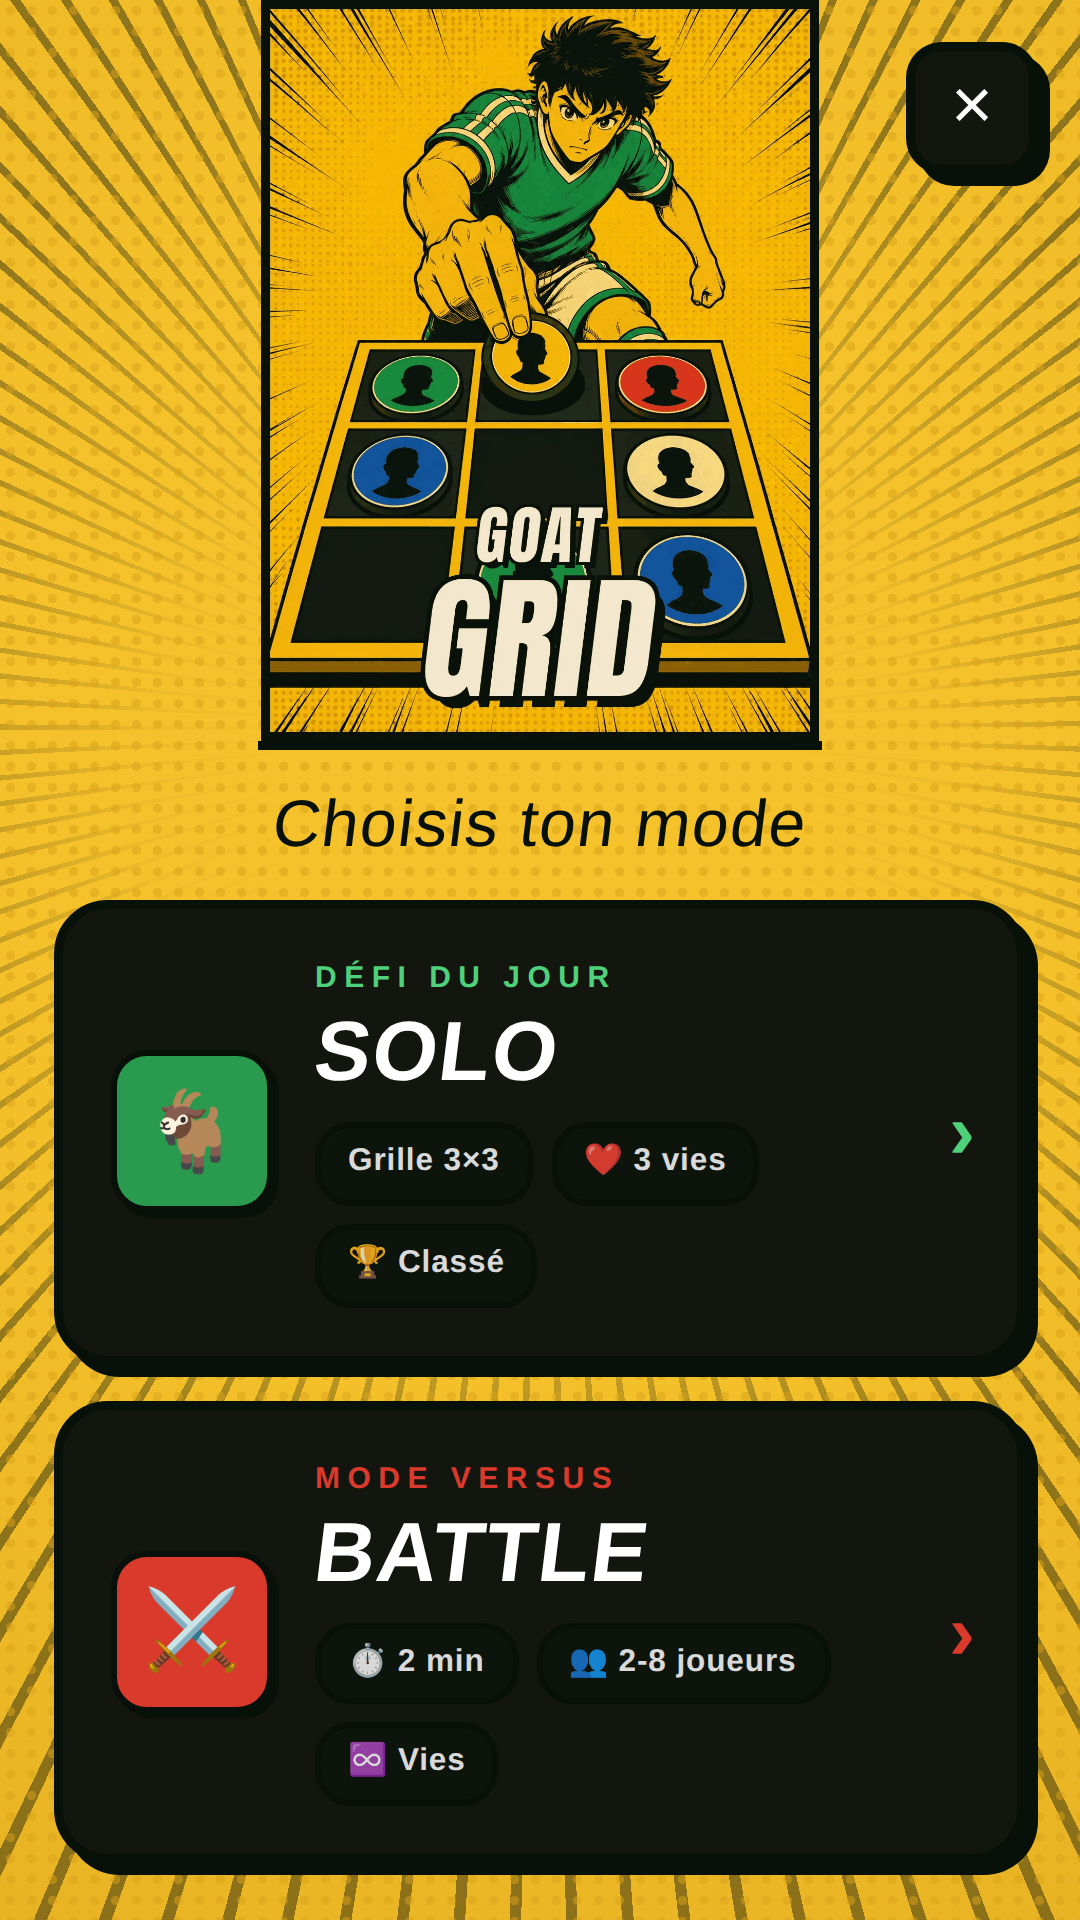
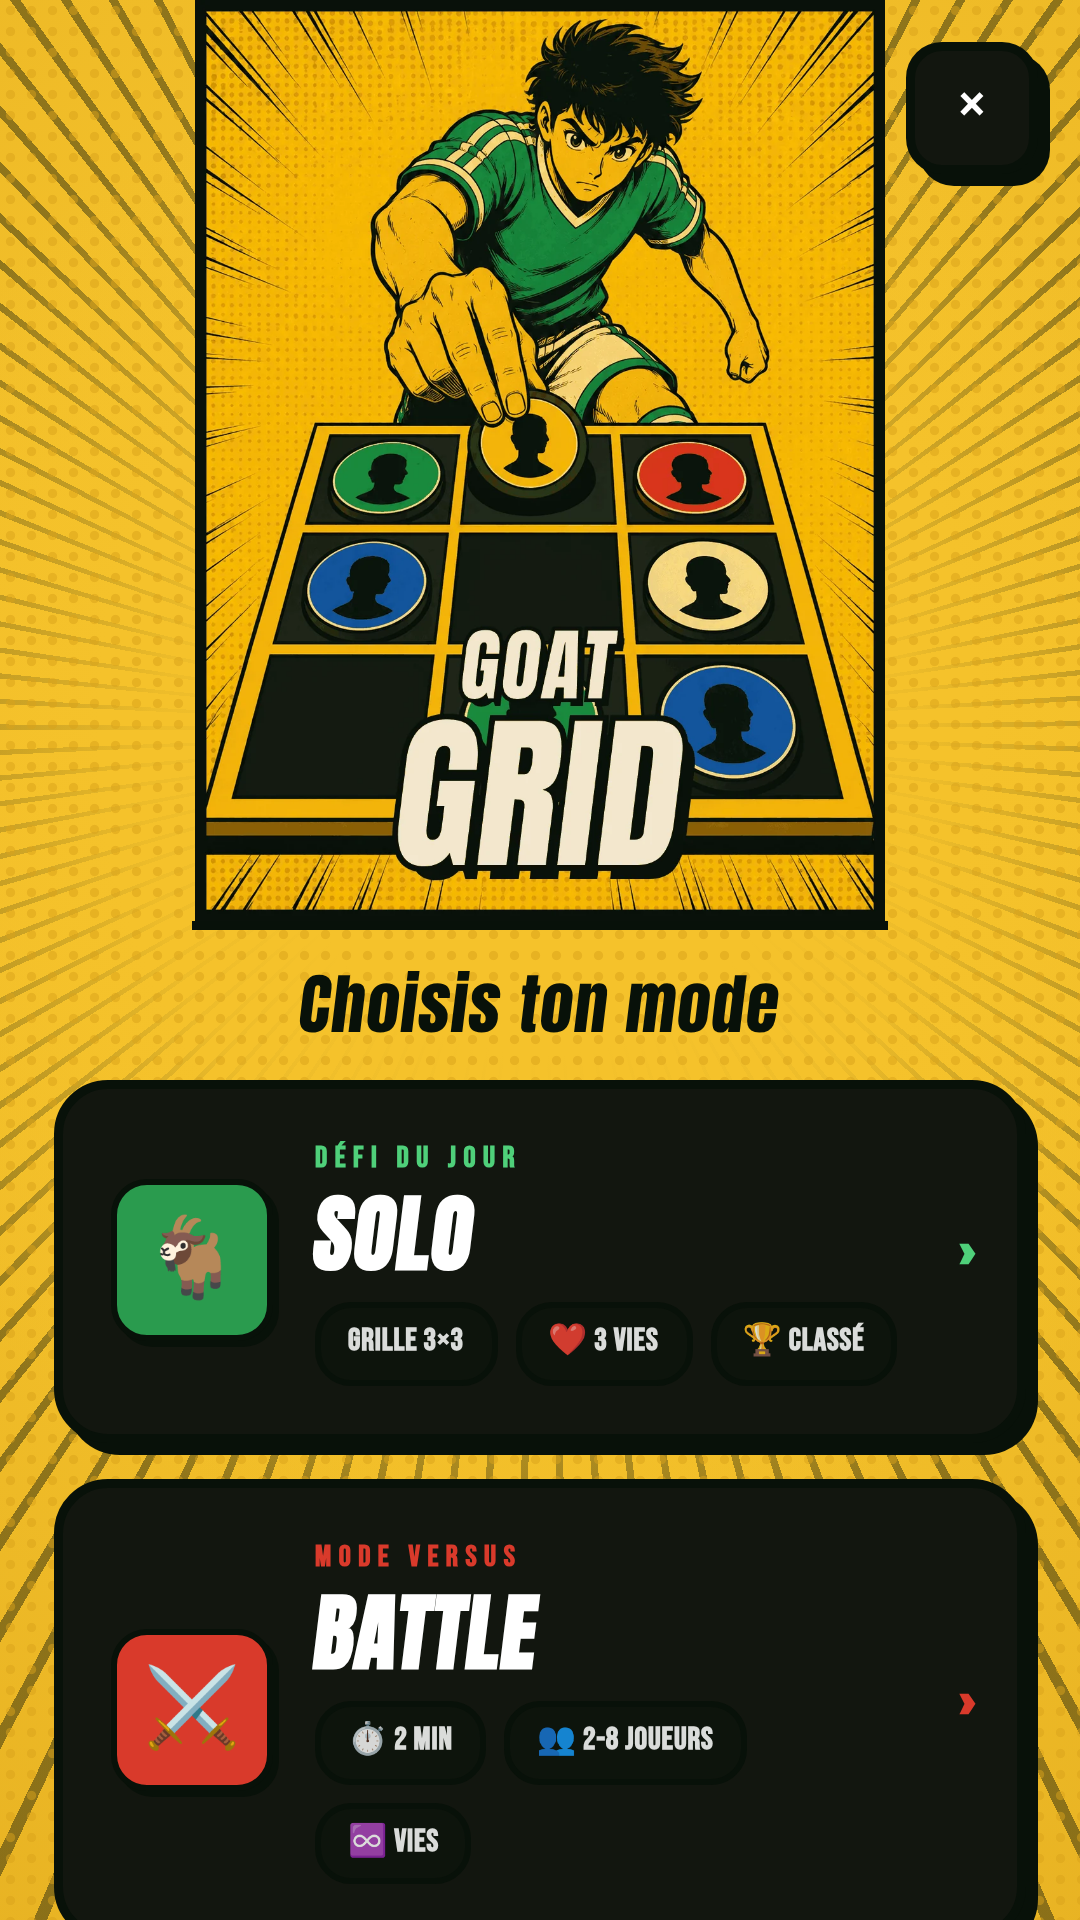
Apercu : les polices etaient absentes, donc TOUT etait peint en repli (#580)
Signalement : « c'est pas la bonne police d'ecriture » sur les visuels du store.
C'etait vrai, et la cause va plus loin que le lettrage.

L'app charge Anton, Bebas Neue, Inter et Nunito UNIQUEMENT depuis Google Fonts.
Le navigateur de cette machine n'y a pas acces : les quatre requetes echouent, et
tout est peint avec la police systeme.

EN SILENCE, et c'est ce qui compte. `document.fonts.check()` repond meme `true`
pour les quatre — il ne dit pas si la police est chargee, seulement que le texte
serait rendu. Un controle qui rassure sans rien verifier. Ce qui l'a prouve, c'est
la mesure : « GOAT GRID BATTLE » a 60 px faisait EXACTEMENT 390 px en Anton comme
en repli. Meme largeur, meme police.

Le depot versionnait deja Anton pour cette raison exacte, et son LISEZ-MOI le dit
mot pour mot : « une police chargee depuis un CDN au moment du rendu echoue en
silence et retombe sur une police systeme — le visuel partirait avec le mauvais
lettrage sans que rien ne le signale. » Je ne l'ai pas utilisee. Bebas Neue
l'accompagne maintenant, telechargee depuis le sous-ensemble latin de Google.

LA CONSEQUENCE QUI NE SE VOYAIT PAS. Les polices de repli sont plus LARGES que les
condensees. Les pastilles passaient donc a la ligne, et le bloc des choix de la
feuille GOAT GRID mesurait 387 px au lieu de 320. Le plafond de l'affiche pose ce
matin avait ete dimensionne sur ce chiffre faux : l'affiche etait 70 px plus petite
[…]

diff --git a/src/test/images.test.ts b/src/test/images.test.ts
@@ -128,3 +128,44 @@ describe("manifest.json", () => {
     expect(manifeste.theme_color.toUpperCase()).toBe("#F5C22B");
   });
 });
+
+// ── LES POLICES DU HARNAIS DOIVENT RESTER LÀ ──────────────────────────────
+//
+// L'app charge Anton, Bebas Neue, Inter et Nunito depuis Google Fonts. Une
+// machine sans accès à ce CDN — celle des aperçus, celle d'une CI — peint alors
+// tout en police système, EN SILENCE : les quatre requêtes échouent et
+// `document.fonts.check()` répond quand même `true`, parce qu'il ne dit pas si la
+// police est chargée mais si le texte serait rendu.
+//
+// Treize captures du Play Store sont parties avec le mauvais lettrage avant que
+// quelqu'un ne le remarque à l'œil. Pire, les polices de repli sont plus LARGES
+// que les condensées : les pastilles passaient à la ligne, le bloc des choix
+// mesurait 387 px au lieu de 320, et le plafond de l'affiche de GOAT GRID avait
+// été dimensionné sur ce chiffre faux.
+//
+// scripts/apercu.mjs les injecte donc en data URI et refuse de photographier si
+// elles ne sont pas appliquées. Ce test garde l'autre bout : que les fichiers
+// existent, et qu'ils soient de vrais woff2.
+describe("polices embarquées pour les aperçus", () => {
+  const POLICES = ["anton-latin.woff2", "bebas-neue-latin.woff2"];
+  const DOSSIER = join(process.cwd(), "scripts", "polices");
+
+  for (const nom of POLICES) {
+    it(nom + " est présente et est bien un woff2", () => {
+      const chemin = join(DOSSIER, nom);
+      expect(existsSync(chemin)).toBe(true);
+      // La signature d'un woff2 est « wOF2 » sur les quatre premiers octets. Un
+      // fichier tronqué ou une page d'erreur HTML téléchargée à sa place
+      // passerait un simple contrôle d'existence.
+      const tete = readFileSync(chemin).subarray(0, 4).toString("latin1");
+      expect(tete).toBe("wOF2");
+    });
+  }
+
+  it("apercu.mjs les injecte toutes les deux", () => {
+    const src = readFileSync(join(process.cwd(), "scripts", "apercu.mjs"), "utf8");
+    for (const nom of POLICES) expect(src).toContain(nom);
+    // Et il doit REFUSER de capturer sans elles, pas seulement prévenir.
+    expect(src).toContain("POLICE NON APPLIQUÉE");
+  });
+});

diff --git a/src/components/LePont.jsx b/src/components/LePont.jsx
@@ -14065,11 +14065,18 @@ export default function LePont() {
                   Défiler n'était pas une réponse : l'affiche remplit l'écran
                   jusqu'au bord, donc rien n'annonce qu'il y a quelque chose en
                   dessous.
-                  390 px est la hauteur mesurée du bloc des choix, et la zone
+                  330 px est la hauteur MESURÉE du bloc des choix, et la zone
                   sûre du bas s'y ajoute sur un téléphone à encoche. Le plancher
                   de 170 px évite qu'un très petit écran ne réduise l'affiche à
-                  une vignette : là, on accepte de défiler. */}
-              <div style={{position:"relative",zIndex:1,width:"100%",aspectRatio:"1086 / 1448",flex:"0 0 auto",maxWidth:"min(480px, max(170px, calc((100dvh - 390px - env(safe-area-inset-bottom)) * 1086 / 1448)))",margin:"0 auto",overflow:"hidden",borderBottom:G.trait}}>
+                  une vignette : là, on accepte de défiler.
+                  La première version réservait 390 px, mesurés dans un harnais
+                  où les polices de Google Fonts n'étaient pas chargées : le
+                  texte, peint en repli système, était plus large et les pastilles
+                  passaient à la ligne. Avec Anton et Bebas Neue, condensées, le
+                  bloc fait 320 px et l'affiche récupère les 70 px de différence.
+                  Le harnais embarque désormais les deux polices et REFUSE de
+                  photographier si elles ne sont pas appliquées. */}
+              <div style={{position:"relative",zIndex:1,width:"100%",aspectRatio:"1086 / 1448",flex:"0 0 auto",maxWidth:"min(480px, max(170px, calc((100dvh - 330px - env(safe-area-inset-bottom)) * 1086 / 1448)))",margin:"0 auto",overflow:"hidden",borderBottom:G.trait}}>
                 <img src={GRID_CARD_IMG} alt="" style={{width:"100%",height:"100%",objectFit:"contain",objectPosition:"center",pointerEvents:"none",userSelect:"none"}} draggable={false}/>
                 {/* Plus de voile ni de titre rapporte : l'affiche porte deja
                     « GOAT GRID » en toutes lettres. Ils avaient un sens quand
